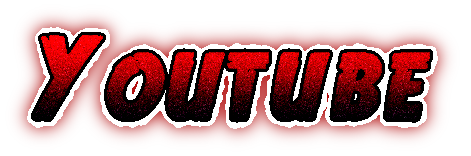
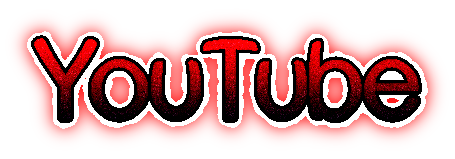
yeni gifler

diff --git a/index.html b/index.html
@@ -19,10 +19,10 @@
         </button>
         <!-- <button onclick="window.location.href='Youtube.html';"><strong>Youtube</strong></button> -->
         <button onclick="window.location.href='Youtube.html';" >
-            <img src="/static/images/Butonlar/Youtube.png" alt="Logo"  >
+            <img src="/static/images/Butonlar/YouTube.gif" alt="Logo" style="width: 100px; height: 100px;" >
         </button>
         <button onclick="window.location.href='GameBasket.html';">
-            <img src="/static/images/Butonlar/Joystick.gif" alt="Logo" style="background: black; width: 100px; height: 100px;background-size: 100% 100%;">
+            <img src="/static/images/Butonlar/Joystick.gif" alt="Logo" style="width: 100px; height: 100px;">
         </button>
         
     </div>

diff --git a/styles.css b/styles.css
@@ -39,8 +39,8 @@ body {
     color: white;
 }
 .container button img{
-    width: 100px; 
-    height: 50px;
+    width: 150px; 
+    height: 75px;
     display: flex;
 }
 .new {
